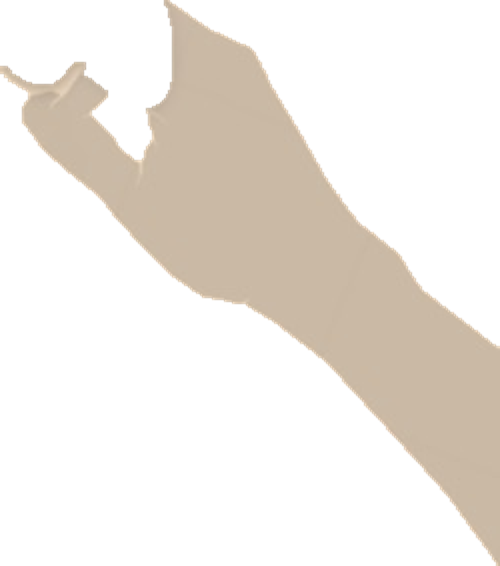
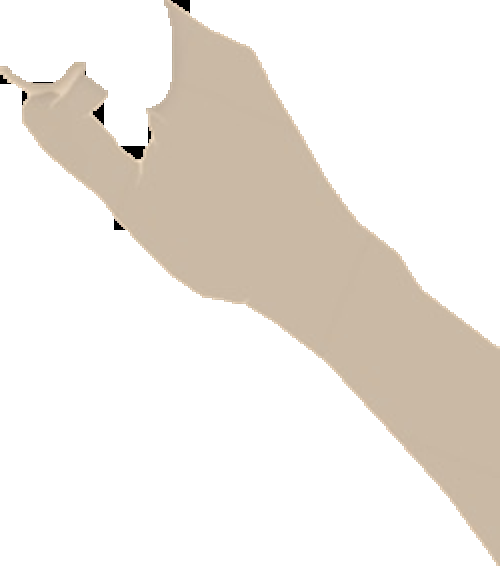
Hero hands: arm cut-offs pushed off-screen, fingertip notches filled

diff --git a/src/components/HeroClient.tsx b/src/components/HeroClient.tsx
@@ -74,7 +74,7 @@ export function HeroClient({ svgs }: Props) {
       {/* Backdrop: the two hands from the logo, one reaching in from the top left and one from the bottom right. They do not meet. */}
       <motion.div aria-hidden style={{ opacity: bgFade }} className="pointer-events-none absolute inset-0 select-none">
         <motion.div
-          className="absolute -top-[2vh] -left-[4vw] w-[min(58vw,64vmin,560px)] md:top-[2vh] md:left-[2vw] md:w-[min(40vw,58vmin,560px)]"
+          className="absolute -top-[6vh] -left-[8vw] w-[min(62vw,66vmin,600px)] md:-top-[7vh] md:-left-[4vw] md:w-[min(42vw,60vmin,600px)]"
           style={{ aspectRatio: "248 / 273", transform: leftT }}
         >
           <div className="hero-hand-l h-full w-full">
@@ -85,7 +85,7 @@ export function HeroClient({ svgs }: Props) {
           </div>
         </motion.div>
         <motion.div
-          className="absolute -right-[4vw] -bottom-[2vh] w-[min(58vw,64vmin,560px)] md:right-[2vw] md:bottom-[2vh] md:w-[min(40vw,58vmin,560px)]"
+          className="absolute -right-[8vw] -bottom-[6vh] w-[min(62vw,66vmin,600px)] md:-right-[4vw] md:-bottom-[7vh] md:w-[min(42vw,60vmin,600px)]"
           style={{ aspectRatio: "250 / 283", transform: rightT }}
         >
           <div className="hero-hand-r h-full w-full">
